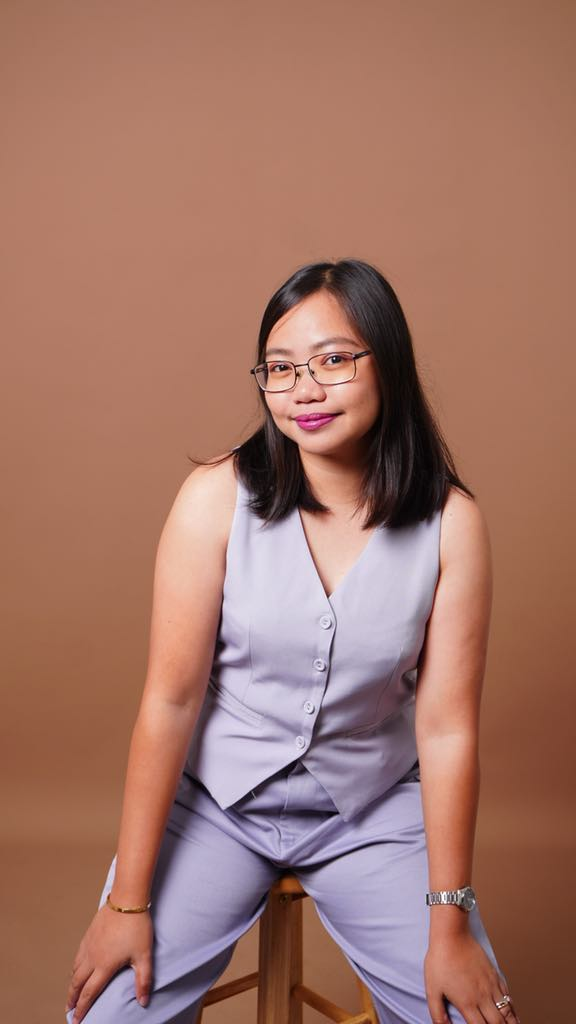
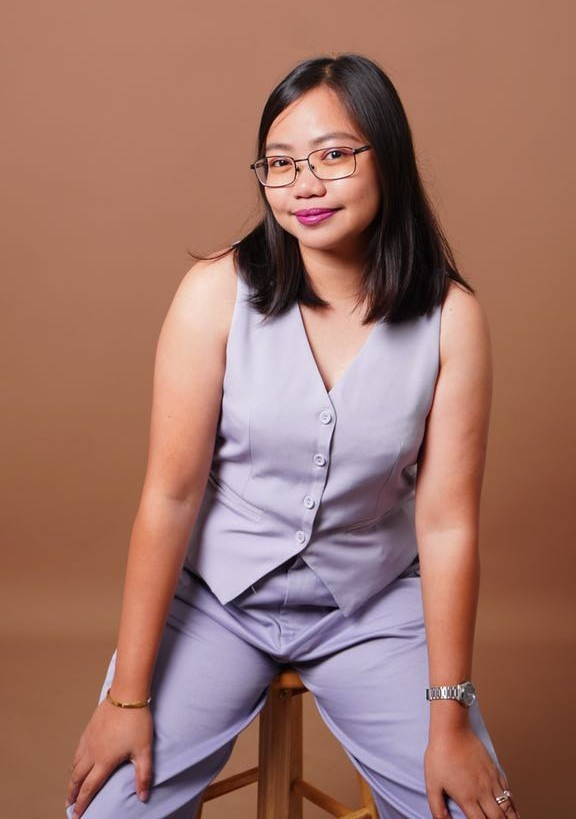
working on about section

diff --git a/index.html b/index.html
@@ -54,6 +54,36 @@
             </div>
         </div>
     </section>
+
+    <section id="about">
+        <p class="section_text_p1">Get To Know More</p>
+        <h1 class="title">About Me</h1>
+        <div class="section-container">
+            <div class="section_pic-container_2">
+                <img src="./assets/about-pic.jpg" alt="profile picture" class="about-pic">
+            </div>
+            
+            <div class="about-details-container">
+                <div class="about-containers">
+                    <div class="details-container">
+                        <img src="./assets/experience.png" alt="experience icon" class="icon">
+                        <h3>Experience</h3>
+                        <p>5+ Years </br>Web QA Manual Testing</p>
+                    </div>  
+                    <div class="details-container">
+                        <img src="./assets/education.png" alt="education icon" class="icon">
+                        <h3>Education</h3>
+                        <p>Bachelor of Science in Information Technology</p>
+                    </div>
+                </div>
+                <div class="text-container">
+                    <p>
+                        Detail-oriented and highly motivated Manual Tester with 5+ years of experience in software testing across web, mobile, and desktop applications. Skilled in analyzing requirements, creating detailed test cases, executing test scenarios, and reporting defects. Proficient in Agile and Waterfall methodologies, with hands-on experience in test management tools like JIRA, TestRail, and Bugzilla. Passionate about ensuring high-quality software and enhancing user experience through rigorous testing and defect tracking.
+                    </p>
+                </div>
+            </div>
+        </div>
+    </section>
     <script src="script.js"></script>
 </body>
 </html>

diff --git a/style.css b/style.css
@@ -186,6 +186,10 @@ section{
     border-radius: 50%;
 }
 
+.section_pic-container_2 img{
+    border-radius: 6%;
+}
+
 .section_text{
     align-self: center;
     text-align: center;
